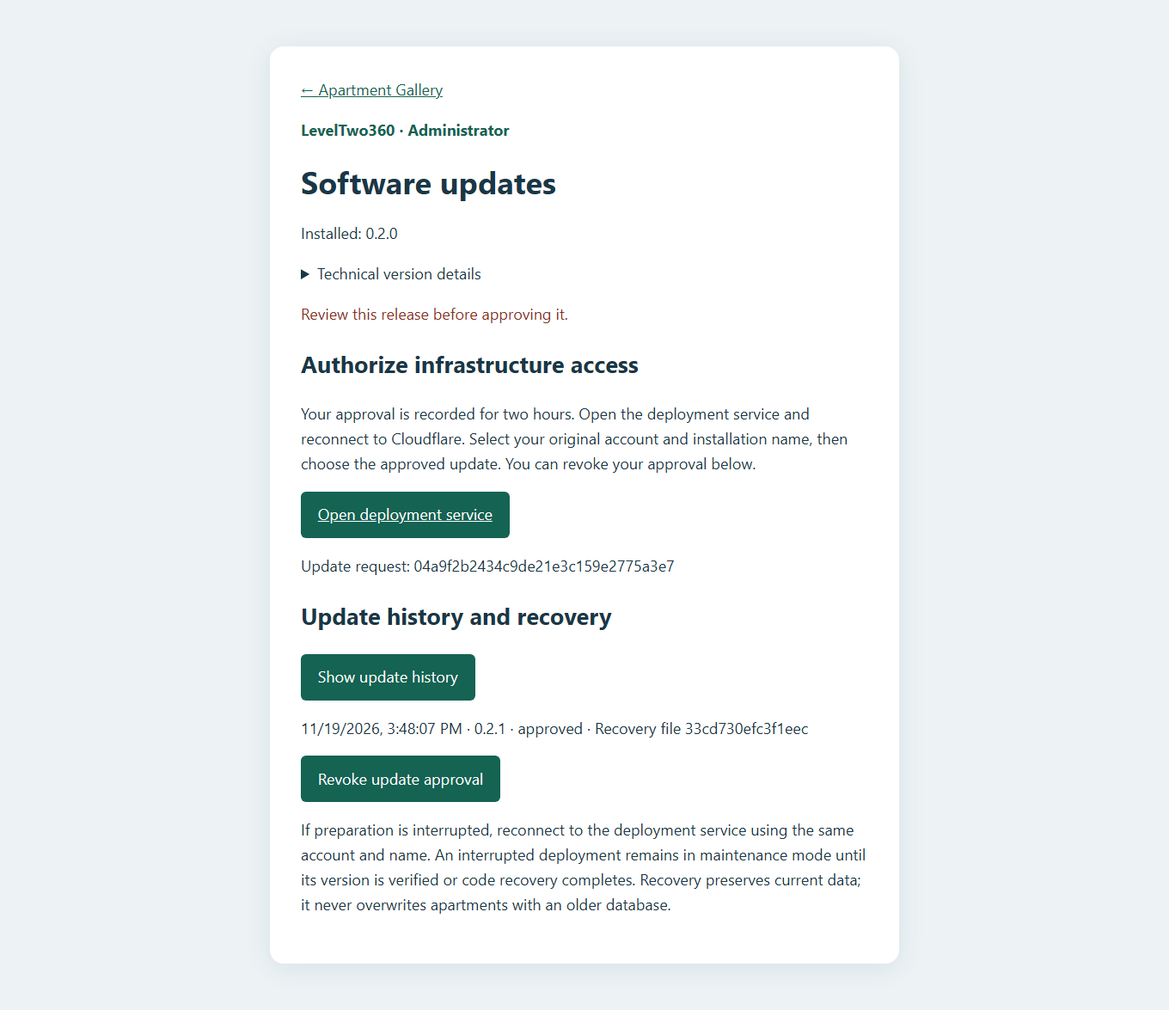
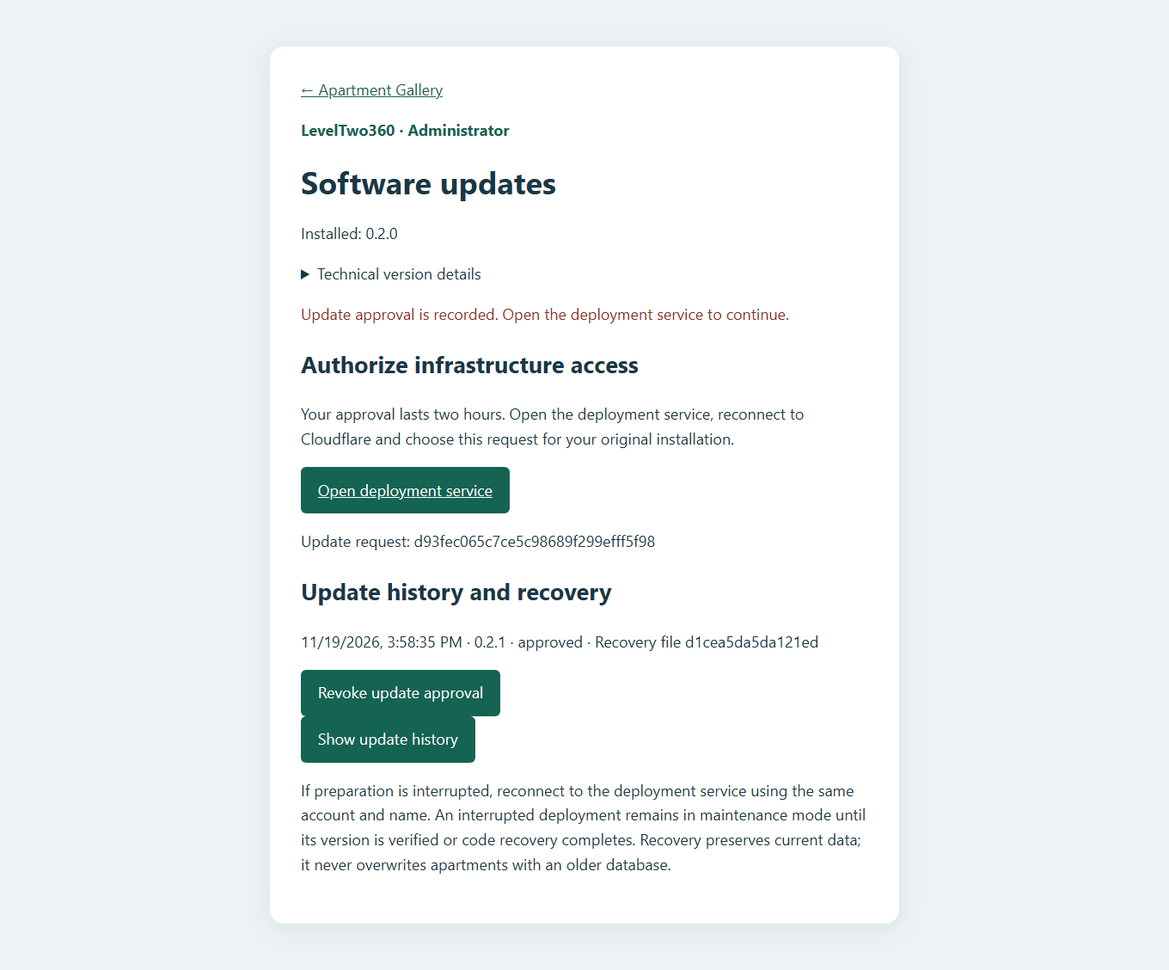
Verify real browser downloads and interrupted recovery through staff editing

Changed region(s): [[0.2471, 0.0621, 0.7103, 0.5895], [0.2471, 0.6206, 0.7412, 0.8998]]

diff --git a/cloudflare/maintenance.js b/cloudflare/maintenance.js
@@ -1,9 +1,11 @@
 const $ = id => document.getElementById(id);
 const say = text => { if ($('message').textContent !== text) $('message').textContent = text; };
 const endpoint = '/api/staff/maintenance';
+let catalogLoaded=false;
 let state, publicKey, verified = false, generation = 0, selection = 0, timer, pending = false;
 async function api(suffix = '', options) {
   const response = await fetch(endpoint + suffix, options);
+  if(response.status===401||response.status===403){const error=Error('Sign in with an active Administrator account to see update progress.');error.status=response.status;throw error;}
   const value = await response.json();
   if (!response.ok) throw Error(value.error || 'Sign in again and retry.');
   return value;
@@ -54,7 +56,7 @@ $('saved').onchange=async () => {
   allowApproval();
 };
 $('confirmed').onchange=allowApproval;
-async function renderRows(rows){
+async function renderRows(rows, target='requests'){
  const boxes=[];
  for(const row of rows){
   const box=document.createElement('section'),p=document.createElement('p');
@@ -71,23 +73,45 @@ async function renderRows(rows){
   }
   boxes.push(box);
  }
- $('requests').replaceChildren(...boxes);
+ $(target).replaceChildren(...boxes);
 }
 async function refresh(){
  clearTimeout(timer);
- const {locked,request}=await api('?view=status');
+ const {locked,request,installed,companion}=await api('?view=status');
+ if(state?.installed?.build!==installed.build){catalogLoaded=false;state={installed};}
+ $('installed').textContent='Installed: '+installed.version;
+ $('technical').textContent='Build '+installed.build+' · schema '+installed.schema;
+ if(companion && new URL(companion).protocol==='https:'){$('companion').href=new URL(companion).origin;$('companion').hidden=false;}
  const active=locked || (request && !request.revoked && request.expires>Date.now() && !['complete','recovered'].includes(request.phase));
+ if(!active && !catalogLoaded){
+  state=await api();catalogLoaded=true;
+  if(state.available){$('version').textContent='Available: '+state.available.version;$('notes').textContent=state.available.notes;}
+ }
  $('handoff').hidden=!active;$('candidate').hidden=!!active||!state.available;
- if(request)await renderRows([request]);
- say(locked && ['complete','recovered'].includes(request?.phase)?'Editing is paused. Reconnect and resume this request to verify the website.':request?.revoked?'Update approval revoked.':request?.message||state.notice);
+ await renderRows(request?[request]:[]);
+ const terminal=['complete','recovered'].includes(request?.phase);
+ const expired=request && !terminal && request.expires<=Date.now();
+ const recovery=locked && (terminal || expired || request?.revoked || !request || request.phase==='operator-recovery-required');
+ $('handoff-title').textContent=recovery?'Resume installation recovery':'Authorize infrastructure access';
+ $('handoff-message').textContent=recovery?'Reconnect to the original account and installation. Resume this request to verify the website and restore editing.':'Your approval lasts two hours. Open the deployment service, reconnect to Cloudflare and choose this request for your original installation.';
+ say(recovery?'Editing is paused until the installation is verified.':request?.revoked?'Update approval revoked.':expired?'Update approval expired. Review the current release to approve a new request.':request?.message||(active?'Update approval is recorded. Open the deployment service to continue.':state.notice));
  if(active){
-  $('request').textContent='Update request: '+request.id;
+  $('request').textContent=request?'Update request: '+request.id:'Ask your authorized infrastructure operator to inspect the maintenance lock.';
   if(!document.hidden)timer=setTimeout(poll,5000);
  }
 }
-function poll(){refresh().catch(()=>{say('Progress connection interrupted. Reconnecting…');if(!document.hidden)timer=setTimeout(poll,10000);});}
+function poll(){refresh().catch(error=>{if(error.status===401||error.status===403){say(error.message);$('candidate').hidden=true;$('handoff').hidden=true;$('requests').replaceChildren();$('history').hidden=true;return;}say('Progress connection interrupted. Reconnecting…');if(!document.hidden)timer=setTimeout(poll,10000);});}
 document.addEventListener('visibilitychange',()=>{clearTimeout(timer);if(!document.hidden&&state)poll();});
-$('show-history').onclick=async()=>{try{const data=await api('?view=history');await renderRows(data.requests);for(const event of data.history){const p=document.createElement('p');p.textContent=new Date(event.created).toLocaleString()+' · '+event.event;$('requests').append(p);}}catch(e){say(e.message);}};
+$('show-history').onclick=async()=>{
+ const panel=$('history'),button=$('show-history');
+ if(!panel.hidden){panel.hidden=true;button.textContent='Show update history';button.setAttribute('aria-expanded','false');return;}
+ button.disabled=true;
+ try{
+  const data=await api('?view=history');await renderRows(data.requests,'history');
+  for(const event of data.history){const p=document.createElement('p');p.textContent=new Date(event.created).toLocaleString()+' · '+event.event;panel.append(p);}
+  panel.hidden=false;button.textContent='Hide update history';button.setAttribute('aria-expanded','true');
+ }catch(e){say(e.message);}finally{button.disabled=false;}
+};
 $('approve').onclick=async()=>{
  if(pending||!verified||!$('confirmed').checked)return;
  pending=true;allowApproval();
@@ -95,11 +119,4 @@ $('approve').onclick=async()=>{
  catch(e){say(e.message+' Refresh to check whether approval was recorded.');}
  finally{pending=false;allowApproval();}
 };
-async function start(){
- state=await api();$('installed').textContent='Installed: '+state.installed.version;
- $('technical').textContent='Build '+state.installed.build+' · schema '+state.installed.schema;
- if(state.available){$('version').textContent='Available: '+state.available.version;$('notes').textContent=state.available.notes;}
- if(state.companion && new URL(state.companion).protocol==='https:'){$('companion').href=new URL(state.companion).origin;$('companion').hidden=false;}
- await refresh();
-}
-start().catch(e=>say(e.message));
+poll();

diff --git a/cloudflare/maintenance.html b/cloudflare/maintenance.html
@@ -1,1 +1,1 @@
-<!doctype html><html lang="en"><head><meta charset="utf-8"><meta name="viewport" content="width=device-width,initial-scale=1"><title>Software updates · LevelTwo360</title><link rel="stylesheet" href="/sharing/agency-setup.css"><script type="module" src="/sharing/maintenance.js"></script></head><body><main><a href="/staff">← Apartment Gallery</a><p class="brand">LevelTwo360 · Administrator</p><h1>Software updates</h1><p id="installed"></p><details><summary>Technical version details</summary><p id="technical" style="overflow-wrap:anywhere"></p></details><p id="message" role="status" aria-live="polite"></p><section id="candidate" hidden><h2 id="version"></h2><pre id="notes" style="white-space:pre-wrap"></pre><p>Updating briefly pauses editing and guest sign-in. Existing apartments, accounts, permissions and secrets are preserved. A complete encrypted installation backup is created first. Cloudflare authorization is separate from this approval.</p><p>Save the private recovery file below in your agency’s approved secure storage. It decrypts your infrastructure backup, including account and configuration data. Keep it separate from the encrypted backup. Never send it in chat or an ordinary support ticket.</p><button id="key">Generate and download recovery file</button><label>Check the file you just saved on this device<input id="saved" type="file" accept=".json,application/json" disabled></label><label><input id="confirmed" type="checkbox"> I reviewed this version and approve its installation.</label><button id="approve" disabled>Approve this update</button></section><section id="handoff" hidden><h2>Authorize infrastructure access</h2><p id="handoff-message">Your approval is recorded for two hours. Open the deployment service and reconnect to Cloudflare. Select your original account and installation name, then choose the approved update. You can revoke your approval below.</p><a id="companion" class="button" hidden>Open deployment service</a><p id="request"></p></section><h2>Update history and recovery</h2><button id="show-history">Show update history</button><div id="requests"></div><p>If preparation is interrupted, reconnect to the deployment service using the same account and name. An interrupted deployment remains in maintenance mode until its version is verified or code recovery completes. Recovery preserves current data; it never overwrites apartments with an older database.</p></main></body></html>
+<!doctype html><html lang="en"><head><meta charset="utf-8"><meta name="viewport" content="width=device-width,initial-scale=1"><title>Software updates · LevelTwo360</title><link rel="stylesheet" href="/sharing/agency-setup.css"><script type="module" src="/sharing/maintenance.js"></script></head><body><main><a href="/staff">← Apartment Gallery</a><p class="brand">LevelTwo360 · Administrator</p><h1>Software updates</h1><p id="installed"></p><details><summary>Technical version details</summary><p id="technical" style="overflow-wrap:anywhere"></p></details><p id="message" role="status" aria-live="polite"></p><section id="candidate" hidden><h2 id="version"></h2><pre id="notes" style="white-space:pre-wrap"></pre><p>Updating briefly pauses editing and guest sign-in. Existing apartments, accounts, permissions and secrets are preserved. A complete encrypted installation backup is created first. Cloudflare authorization is separate from this approval.</p><p>Save the private recovery file below in your agency’s approved secure storage. It decrypts your infrastructure backup, including account and configuration data. Keep it separate from the encrypted backup. Never send it in chat or an ordinary support ticket.</p><button id="key">Generate and download recovery file</button><label>Check the file you just saved on this device<input id="saved" type="file" accept=".json,application/json" disabled></label><label><input id="confirmed" type="checkbox"> I reviewed this version and approve its installation.</label><button id="approve" disabled>Approve this update</button></section><section id="handoff" hidden><h2 id="handoff-title">Authorize infrastructure access</h2><p id="handoff-message">Your approval is recorded for two hours. Open the deployment service and reconnect to Cloudflare. Select your original account and installation name, then choose the approved update. You can revoke your approval below.</p><a id="companion" class="button" hidden>Open deployment service</a><p id="request"></p></section><h2>Update history and recovery</h2><div id="requests"></div><button id="show-history" aria-expanded="false" aria-controls="history">Show update history</button><div id="history" hidden></div><p>If preparation is interrupted, reconnect to the deployment service using the same account and name. An interrupted deployment remains in maintenance mode until its version is verified or code recovery completes. Recovery preserves current data; it never overwrites apartments with an older database.</p></main></body></html>

diff --git a/agency/wizard.js b/agency/wizard.js
@@ -4,11 +4,13 @@ const rememberedName=sessionStorage.getItem('installationName');
 if(rememberedName)$('name').value=rememberedName;
 $('name').onchange=()=>sessionStorage.setItem('installationName',$('name').value);
 history.replaceState(null,'',location.pathname);
+let mayInstall=false,submitting=false;
 const message=text=>$('message').textContent=text;
 async function state(){
  const response=await fetch('/api/state'),data=await response.json();
  $('retry-state').hidden=true;
- $('start-install').disabled=!data.freeVerificationAvailable;
+ mayInstall=!!data.freeVerificationAvailable;
+ $('start-install').disabled=!mayInstall||submitting;
  $('availability').hidden=data.freeVerificationAvailable;
  $('authorize').textContent=data.freeVerificationAvailable?'Connect to Cloudflare':'Connect for an existing installation';
  if(authOutcome==='failed')message('Cloudflare authorization did not finish. Connect again when you are ready.');
@@ -22,6 +24,10 @@ async function state(){
   message(data.error);
   $('connect').querySelector('h2').textContent='Reconnect to continue';
   $('authorize').textContent='Reconnect to Cloudflare';
+ }else if(data.sessionExpired){
+  $('connect').querySelector('h2').textContent='Cloudflare sign-in expired';
+  $('authorize').textContent='Reconnect to Cloudflare';
+  message('Reconnect and select the original account and installation name to continue.');
  }else if(authOutcome==='failed'&&!data.connected){
   $('connect').querySelector('h2').textContent='Authorization did not finish';
   $('authorize').textContent='Reconnect to Cloudflare';
@@ -38,13 +44,18 @@ async function state(){
   if(result.phase){$('next').querySelector('h2').textContent=result.phase==='complete'?'Update complete':'Previous code recovered';$('next').querySelector('p').textContent='Your existing accounts and apartment data are retained. Open your website, or reconnect below to download the encrypted installation backup and review update history.';$('setup-expiry').hidden=true;$('reconnect').hidden=false;}
   $('open').href=result.website+(result.ready||result.phase?'/staff':'/setup#'+result.ticket);
   $('open').textContent=result.ready?'Sign in':result.phase?'Open LevelTwo360':'Continue agency setup';
+  if(!result.ready&&!result.phase&&result.expires<=Date.now()){
+   $('next').querySelector('h2').textContent='Your setup link has expired';
+   $('next').querySelector('p').textContent='Reconnect with the original Cloudflare account and installation name to finish setup.';
+   $('setup-expiry').hidden=true;$('open').href='/oauth/start';$('open').textContent='Reconnect to Cloudflare';
+  }
   $('revocation').textContent=result.revoked?'The temporary Cloudflare deployment token has been revoked.':'The deployment service discarded its token but could not confirm revocation. Revoke this application in Cloudflare’s authorized applications before continuing.';
   $('open').focus();message('');
  }
 }
 $('deploy').onsubmit=async event=>{
- event.preventDefault();const button=event.submitter;button.disabled=true;
- try{const r=await fetch('/api/deploy',{method:'POST',headers:{'Content-Type':'application/json'},body:JSON.stringify({account:$('account').value,name:$('name').value,freeConfirmed:$('free').checked})});const data=await r.json();if(!r.ok)message(data.error);else await state();}catch{message('Connection interrupted. Refresh to check setup before retrying.');}finally{button.disabled=false;}
+ event.preventDefault();if(submitting||!mayInstall)return;submitting=true;const button=$('start-install');button.disabled=true;
+ try{const r=await fetch('/api/deploy',{method:'POST',headers:{'Content-Type':'application/json'},body:JSON.stringify({account:$('account').value,name:$('name').value,freeConfirmed:$('free').checked})});const data=await r.json();if(!r.ok)message(data.error);else await state();}catch{message('Connection interrupted. Refresh to check setup before retrying.');}finally{submitting=false;button.disabled=!mayInstall;}
 };
 $('disconnect').onclick=async()=>{clearTimeout(timer);const r=await fetch('/api/disconnect',{method:'POST',headers:{'Content-Type':'application/json'},body:'{}'});const data=await r.json();if(!r.ok){message(data.error);return;}location.reload();};
 $('account').onchange=()=>{sessionStorage.setItem('installationAccount',$('account').value);$('updates').hidden=true;};

diff --git a/cloudflare/agency-setup.js b/cloudflare/agency-setup.js
@@ -2,33 +2,41 @@ const $=id=>document.getElementById(id);
 // Remove the fragment before any request. Never persist the bootstrap credential.
 let ticket=location.hash.slice(1);history.replaceState(null,'',location.pathname);
 $('website').textContent='Your website: '+location.origin;
-if(!/^[A-Za-z0-9_-]{43}$/.test(ticket)){$('setup').hidden=true;$('message').textContent='Return to the deployment wizard to authorize setup, or open /staff if your Administrator account already exists.';}
-async function resume(){
- $('setup').hidden=true;$('resume').hidden=false;
- const health=await fetch('/api/installation-health').then(r=>r.json()).catch(()=>({}));
+async function resume(expired=false){
+ $('setup').hidden=true;$('resume').hidden=true;$('intro-copy').hidden=true;
+ $('check').hidden=true;
+ let health;
+ try{const response=await fetch('/api/installation-health');health=await response.json();if(!response.ok && !health.companion)throw Error();}
+ catch{
+  $('intro').querySelector('h1').textContent='Check your installation';
+  $('message').textContent='The website could not confirm whether setup finished. Check your connection and try again.';
+  $('check').hidden=false;$('check').onclick=()=>resume(expired);$('check').focus();return;
+ }
  if(health.ready){
   $('intro').querySelector('h1').textContent='Your installation is ready';
   $('message').textContent='Sign in with your existing agency account.';
+  $('resume-link').href='/staff';$('resume-link').textContent='Sign in';$('resume').hidden=false;
  }else{
-  $('intro').querySelector('h1').textContent='Reconnect to finish setup';
+  $('intro').querySelector('h1').textContent=expired?'Your setup link has expired or changed':'Reconnect to finish setup';
   $('message').textContent='Reopen your original deployment invitation and choose the same installation to get a fresh setup link.';
   if(health.companion && new URL(health.companion).protocol==='https:'){
-   $('resume-link').href=new URL(health.companion).origin;$('resume-link').textContent='Return to deployment wizard';
+   $('resume-link').href=new URL(health.companion).origin;$('resume-link').textContent='Return to deployment wizard';$('resume').hidden=false;
   }else $('resume').hidden=true;
  }
+ if(!$('resume').hidden)$('resume-link').focus();
 }
 if(!/^[A-Za-z0-9_-]{43}$/.test(ticket))resume();
 let summary='';
 $('setup').addEventListener('submit',async event=>{
- event.preventDefault();const button=event.submitter;
+ event.preventDefault();const button=$('setup').querySelector('button');if(button.disabled)return;
  if($('password').value!==$('confirmation').value){$('message').textContent='The passwords do not match.';return;}
  button.disabled=true;$('message').textContent='Creating your Administrator account…';
  try{
   const r=await fetch('/api/agency-setup',{method:'POST',headers:{'Content-Type':'application/json'},body:JSON.stringify({ticket,username:$('username').value,password:$('password').value})});
   const data=await r.json();
-  if(!r.ok){if(data.complete||r.status===403){ticket='';await resume();return;}$('message').textContent=data.error;return;}
+  if(!r.ok){if(data.complete||r.status===403){ticket='';await resume(r.status===403);return;}$('message').textContent=data.error;return;}
   ticket='';$('setup').reset();$('setup').hidden=true;$('intro').hidden=true;$('message').textContent='';$('success').hidden=false;
-  $('address').textContent=data.website;
+  $('address').textContent=data.website;$('success').querySelector('a').focus();
   summary=`LevelTwo360 setup summary\nWebsite: ${data.website}\nAdministrator username: ${data.username}\nVersion: ${data.version}\nCompleted: ${new Date().toISOString()}\n\nSign in at ${data.website}/staff\nCreate accounts in Manage staff accounts. Assign permissions and apartment access.\nKeep encrypted apartment backups and store their passwords separately.\nHelp: ${data.website}/staff/help\nSupport: use Diagnostics; never share passwords or Cloudflare credentials.\nThis summary contains no passwords or deployment credentials.\n`;
  }catch{$('message').textContent='The connection was interrupted. Retry with the same details. If setup already completed, sign in at /staff. Your existing Administrator will never be reset.';}
  finally{$('password').value='';$('confirmation').value='';button.disabled=false;}

diff --git a/cloudflare/agency-setup.html b/cloudflare/agency-setup.html
@@ -1,7 +1,7 @@
 <!doctype html><html lang="en"><head><meta charset="utf-8"><meta name="viewport" content="width=device-width,initial-scale=1"><title>Set up LevelTwo360</title><link rel="stylesheet" href="/sharing/agency-setup.css"><script type="module" src="/sharing/agency-setup.js"></script></head><body><main>
 <p class="brand">LevelTwo360 · Agency setup</p><header id="intro"><h1>Create your Administrator account</h1>
-<p>Your agency owns this website. Choose your own sign-in details. Your password is sent only to this installation.</p>
+<p id="intro-copy">Your agency owns this website. Choose your own sign-in details. Your password is sent only to this installation.</p>
 <p id="website"></p></header><p id="message" role="status" aria-live="polite"></p>
-<p id="resume" hidden><a id="resume-link" href="/staff">Sign in</a></p><form id="setup"><label>Administrator username<input id="username" autocomplete="username" required minlength="3" maxlength="64" pattern="[a-z0-9][a-z0-9._-]{2,63}"></label><label>Create password<input id="password" type="password" autocomplete="new-password" required minlength="15" maxlength="256"></label><label>Repeat password<input id="confirmation" type="password" autocomplete="new-password" required minlength="15" maxlength="256"></label><p>Use at least 15 characters. Save your password in your agency’s approved password manager.</p><button>Create Administrator</button></form>
+<p id="resume" hidden><a id="resume-link" href="/staff">Sign in</a></p><button type="button" id="check" hidden>Check installation again</button><form id="setup"><label>Administrator username<input id="username" autocomplete="username" required minlength="3" maxlength="64" pattern="[a-z0-9][a-z0-9._-]{2,63}"></label><label>Create password<input id="password" type="password" autocomplete="new-password" required minlength="15" maxlength="256"></label><label>Repeat password<input id="confirmation" type="password" autocomplete="new-password" required minlength="15" maxlength="256"></label><p>Use at least 15 characters. Save your password in your agency’s approved password manager.</p><button>Create Administrator</button></form>
 <section id="success" hidden><h1>LevelTwo360 is ready!</h1><p id="address"></p><a class="button" href="/staff">Open LevelTwo360</a><ol><li>Sign in using the Administrator account you just created.</li><li>Open Manage staff accounts to create Staff or additional Administrators. Assign each person only the permissions and apartments they need.</li><li>Export encrypted apartment backups regularly. Store backup passwords separately and rehearse restoration.</li><li>Open Help and Diagnostics for technical guidance. Never send passwords or Cloudflare credentials with a support request.</li></ol><button id="summary">Download setup summary</button> <button id="print">Print summary</button><p><a href="/staff/help">Help documentation</a></p></section>
 </main></body></html>

diff --git a/LOGBOOK.md b/LOGBOOK.md
@@ -246,3 +246,5 @@
 - 2026-11-19. Addressed PR #51 audit findings. D1 finalization releases the exact lock and records history atomically after deployment and health verification. Older stranded locks have an authenticated recovery action. Backups read the union of ready D1 photos and listed KV keys, check restored image lengths against the database, retry transient storage failures and report bounded progress. Site setup now explains unavailable Free verification, interrupted consent and initialized installations. Administrators verify their downloaded private recovery file locally by decrypting a fresh challenge. Revocation and status reads bypass the release catalog. The companion uses browser-managed POST downloads and preserves digest checks. Application changes only.
 - Local synthetic acceptance passed 147 tests, both native emulator suites, the agency browser suite and Local Only offline browser acceptance. Tests exercised interruptions before/after completion and recovery, legacy stuck-lock repair, missing/partial images, mobile and desktop wizard states, key mismatch, 16 MiB download and staff writes after update. The prior progress poll used one catalog read plus lock, history and requests queries; the new poll uses zero catalog calls and two focused queries. Revocation also makes zero catalog calls. Screenshots from the synthetic review and approval screens refreshed.
 - Snapshot benchmark (one run per size, 1 MiB/image, 30 ms simulated read latency): 32 images 2311→1407 ms, 64 images 4174→2631 ms; final restore-check plus hash 648/1172 ms. Outputs 56.9/113.8 MiB; image reads 32/64 and one empty schema query in each fixture. Peak process RSS 177→193 MiB and 207→195 MiB respectively. These measurements cover the snapshot portion of the editing pause and exclude real provider latency. Hosted lock duration, Free evidence and physical low-memory-device behavior remain pending the authorized isolated rehearsal.
+- Follow-up acceptance covered both kinds of lost terminal D1 response and all four crash points in native workerd. Each crash resumed twice, unlocked editing, and allowed signed-in Staff to create and revise a draft. The full local suite includes 149 tests. Agency browser checks cover duplicate submission, expired bootstrap and Cloudflare sessions, and expired, active, recovered and completed update approvals. Active progress and revocation work without loading the catalog; expanded history stays open during polling.
+- Chromium downloaded a real encrypted v1 snapshot of ten synthetic 1 MiB images through the companion at desktop and 390 px widths. A throttled download was canceled and retried with matching filename, length and SHA-256. The wizard document needs a same-origin referrer policy for Chromium to supply the exact Origin on the form POST. The download response remains no-store. The server authenticates the request, hashes and streams from a single file handle and checks authorization again before sending. Local Only offline/restart and isolated install/update emulator checks passed. Measured whole-update editing pauses were 2.586 → 2.075 s at 32 MiB and 4.731 → 3.841 s at 64 MiB under simulated latency. Physical low-memory and hosted measurements remain outstanding.

diff --git a/agency/README.md b/agency/README.md
@@ -110,3 +110,5 @@ Terminal status and history commit with release of the matching editing lock in 
 The snapshot records every ready D1 photo even if KV omits its key from a listing. It reads at most three images at once, retries temporary failures within a bounded window, and checks required lengths again against the restored database. Incomplete reservations may lack an object. Existing v1 backups keep their format. An incomplete older snapshot fails verification if a required image is missing.
 
 Run `node agency/snapshot-benchmark.mjs 64 30` for a synthetic 64-image, 64 MiB snapshot with 30 ms per image read. This times the backup portion of maintenance. It excludes OAuth, deployment and real provider latency. A binary encoding could remove much of the double base64 expansion (113.8 MiB on 64 MiB of images), but would require a second authenticated reader and coordinated offline recovery-tool rollout. This iteration keeps recovery compatibility and reduces the measured pause through bounded reads.
+
+In a whole-update fixture with 30 ms simulated latency per 1 MiB image read, the interval from lock acquisition to release fell from 2.586 to 2.075 seconds for 32 images and from 4.731 to 3.841 seconds for 64 images. These are single-run local measurements of the same update before and after bounded reads. The respective synthetic control-plane call counts rose from 123 to 129 and from 155 to 161 with the additional authorization and progress checks. Hosted propagation and account quotas still require the isolated rehearsal.

diff --git a/AGENCY-SETUP.md b/AGENCY-SETUP.md
@@ -77,3 +77,5 @@ The screenshots use a synthetic agency and localhost infrastructure adapters. Th
 ![Recorded update approval](docs/agency/06-update-approved.png)
 
 Publisher deployment and acceptance requirements: [agency/README.md](agency/README.md). Invitation draft: [agency/INVITATION.txt](agency/INVITATION.txt).
+
+If your Administrator setup link expires, use **Return to deployment wizard** or reopen your original invitation. Reconnect to the same account and installation name. If setup already finished, the agency website offers **Sign in**. On **Software updates**, an expired approval requires a new review. If editing is paused, use **Resume installation recovery** to reopen the original request. You can cancel an encrypted backup download in your browser and download the same verified backup again after reconnecting.
